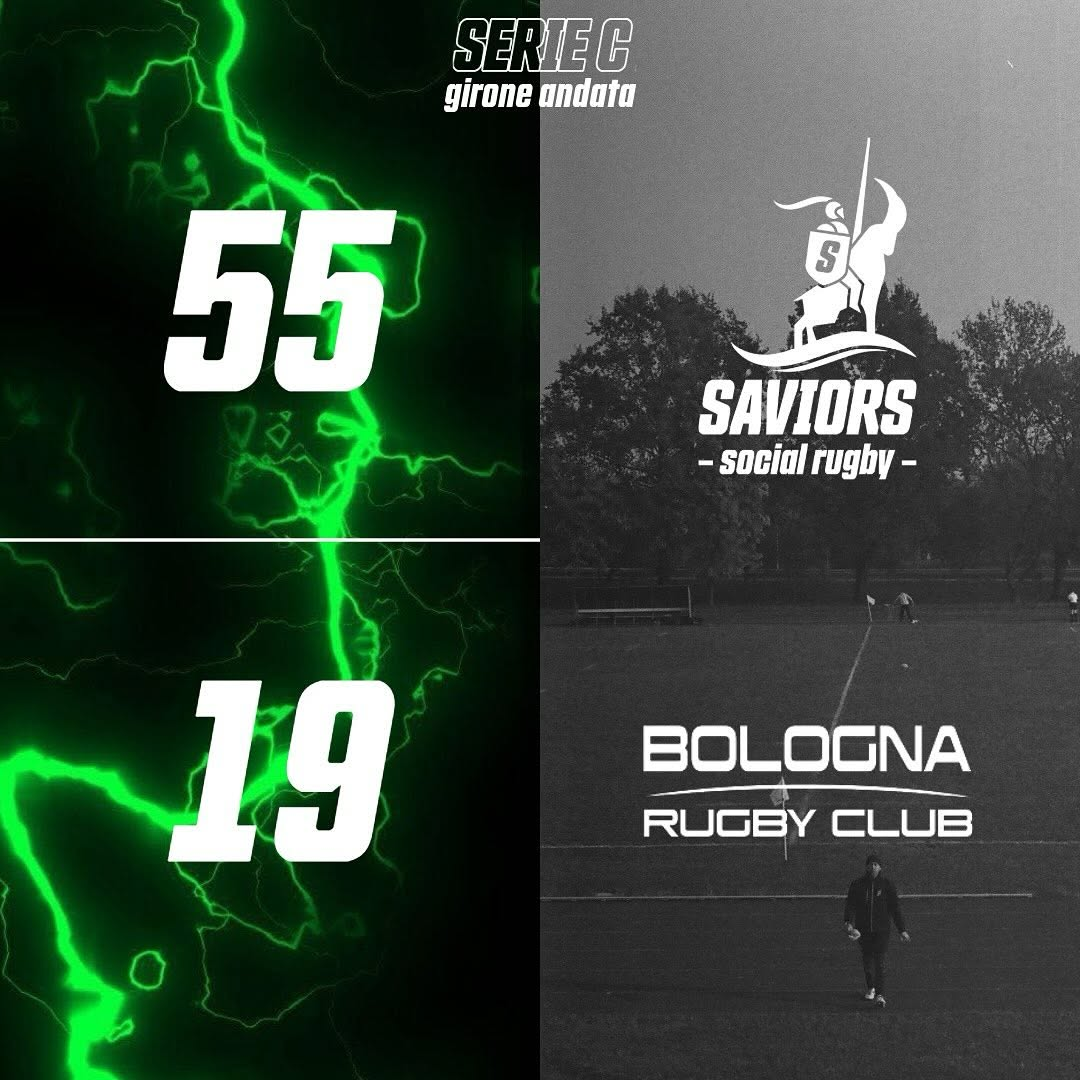
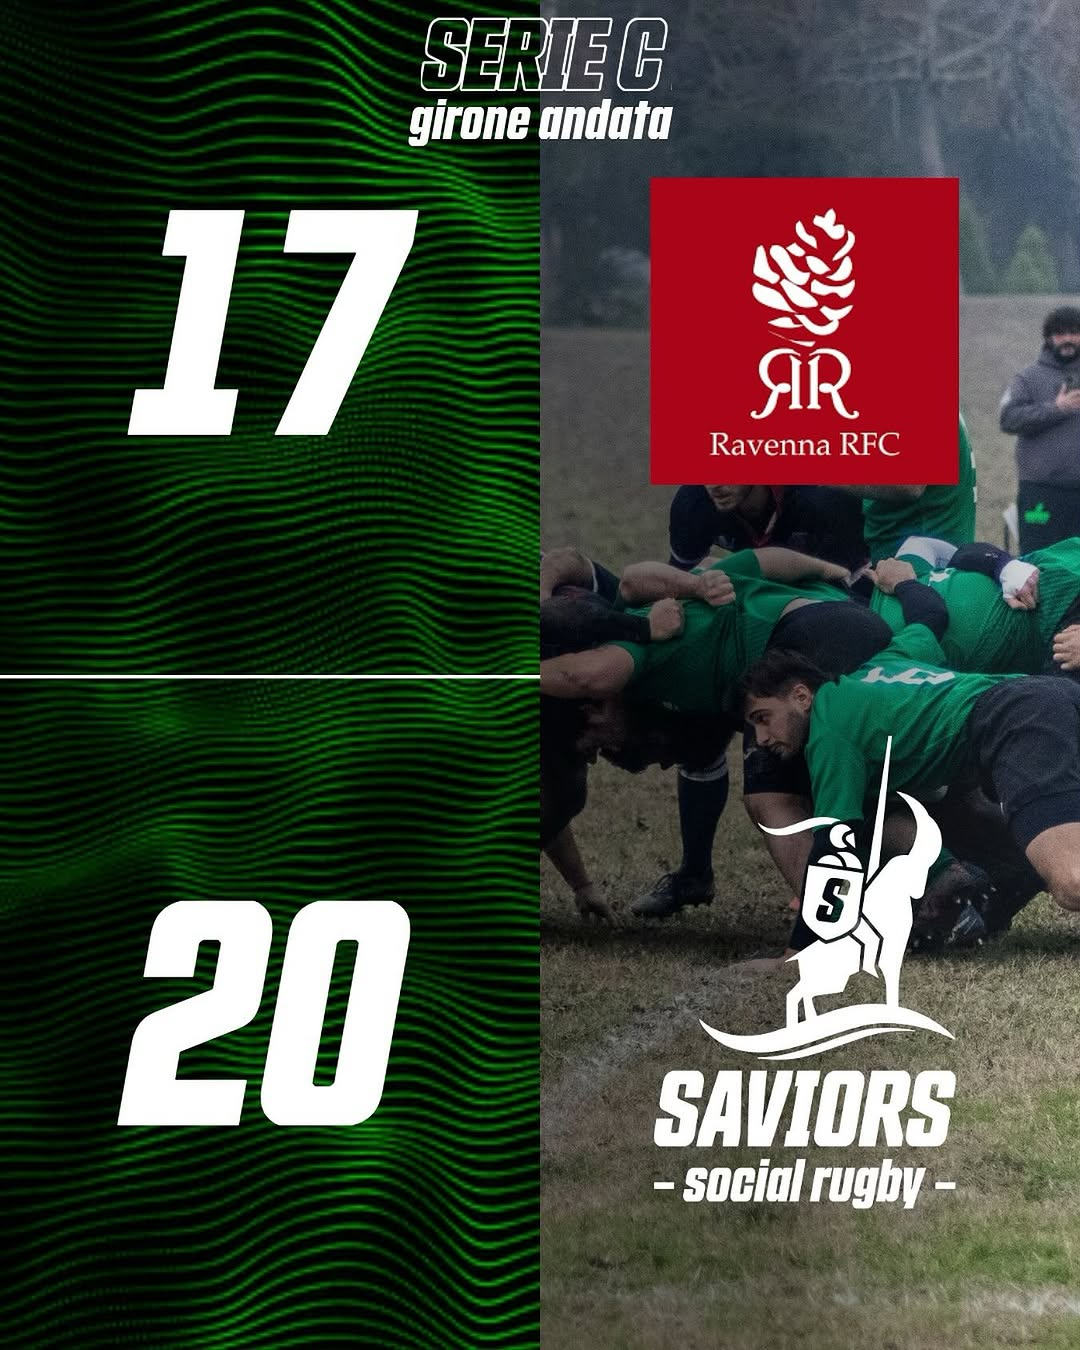
chore: ravenna

diff --git a/content/posts/next-match/index.md b/content/posts/next-match/index.md
@@ -1,5 +1,5 @@
 ---
-title: "Prossimo Match:<br/>ASD Rimini Rugby vs Saviors Social Rugby"
+title: "Prossimo Match:<br/>Saviors Social Rugby vs Modena Rugby"
 date: "2024-12-08"
 sharingLinks:
   - facebook
@@ -7,7 +7,7 @@ sharingLinks:
   - telegram
 tags:
   - Saviors
-  - Rimini
+  - Modena
 showDate: false
 showHeadingAnchors: false
 showHero: false
@@ -15,10 +15,10 @@ weight: 1
 hide: true
 ---
 
-| Giornata  | Data       | Orario | Casa             | Ospiti                       | Indirizzo                |
-| --------- | ---------- | ------ | ---------------- | ---------------------------- | ------------------------ |
-| 6ᵃ Andata | 19/01/2025 | 14:30  | ASD Rimini Rugby | **Saviors Social Rugby ASD** | Campo Rivabella - Rimini |
+| Giornata   | Data       | Orario | Casa                         | Ospiti                  | Indirizzo                               |
+| ---------- | ---------- | ------ | ---------------------------- | ----------------------- | --------------------------------------- |
+| 1ᵃ Ritorno | 16/02/2025 | 14:30  | **Saviors Social Rugby ASD** | Modena Rugby 1965 nr. 2 | Via Roversano 2815, 47522 - Cesena (FC) |
 
-![](./featured.jpg)
+<!-- ![](./featured.jpg) -->
 
 <!-- ![](./team.jpg) -->

diff --git a/content/posts/last-match/index.md b/content/posts/last-match/index.md
@@ -1,13 +1,13 @@
 ---
-title: "Ultimo Match:<br/>Saviors Social Rugby vs Bologna Rugby Club (55 - 19)"
-date: "2023-12-10"
+title: "Ultimo Match:<br/>Ravenna RFC vs Saviors Social Rugby (17 - 20)"
+date: "2025-01-26"
 sharingLinks:
   - facebook
   - whatsapp
   - telegram
 tags:
   - Saviors
-  - Bologna
+  - Ravenna
 showDate: false
 showHeadingAnchors: false
 showHero: false
@@ -15,9 +15,9 @@ weight: 2
 hide: true
 ---
 
-| Giornata  | Data       | Orario | Casa                         | Ospiti             | Indirizzo                               |
-| --------- | ---------- | ------ | ---------------------------- | ------------------ | --------------------------------------- |
-| 5ᵃ Andata | 15/12/2024 | 14:30  | **Saviors Social Rugby ASD** | Bologna Rugby Club | Via Roversano 2815, 47522 - Cesena (FC) |
+| Giornata  | Data       | Orario | Casa        | Ospiti                       | Indirizzo          |
+| --------- | ---------- | ------ | ----------- | ---------------------------- | ------------------ |
+| 6ᵃ Andata | 26/01/2025 | 14:30  | Ravenna RFC | **Saviors Social Rugby ASD** | Ravenna Rugby (RA) |
 
 ![](./featured.jpg)
 
